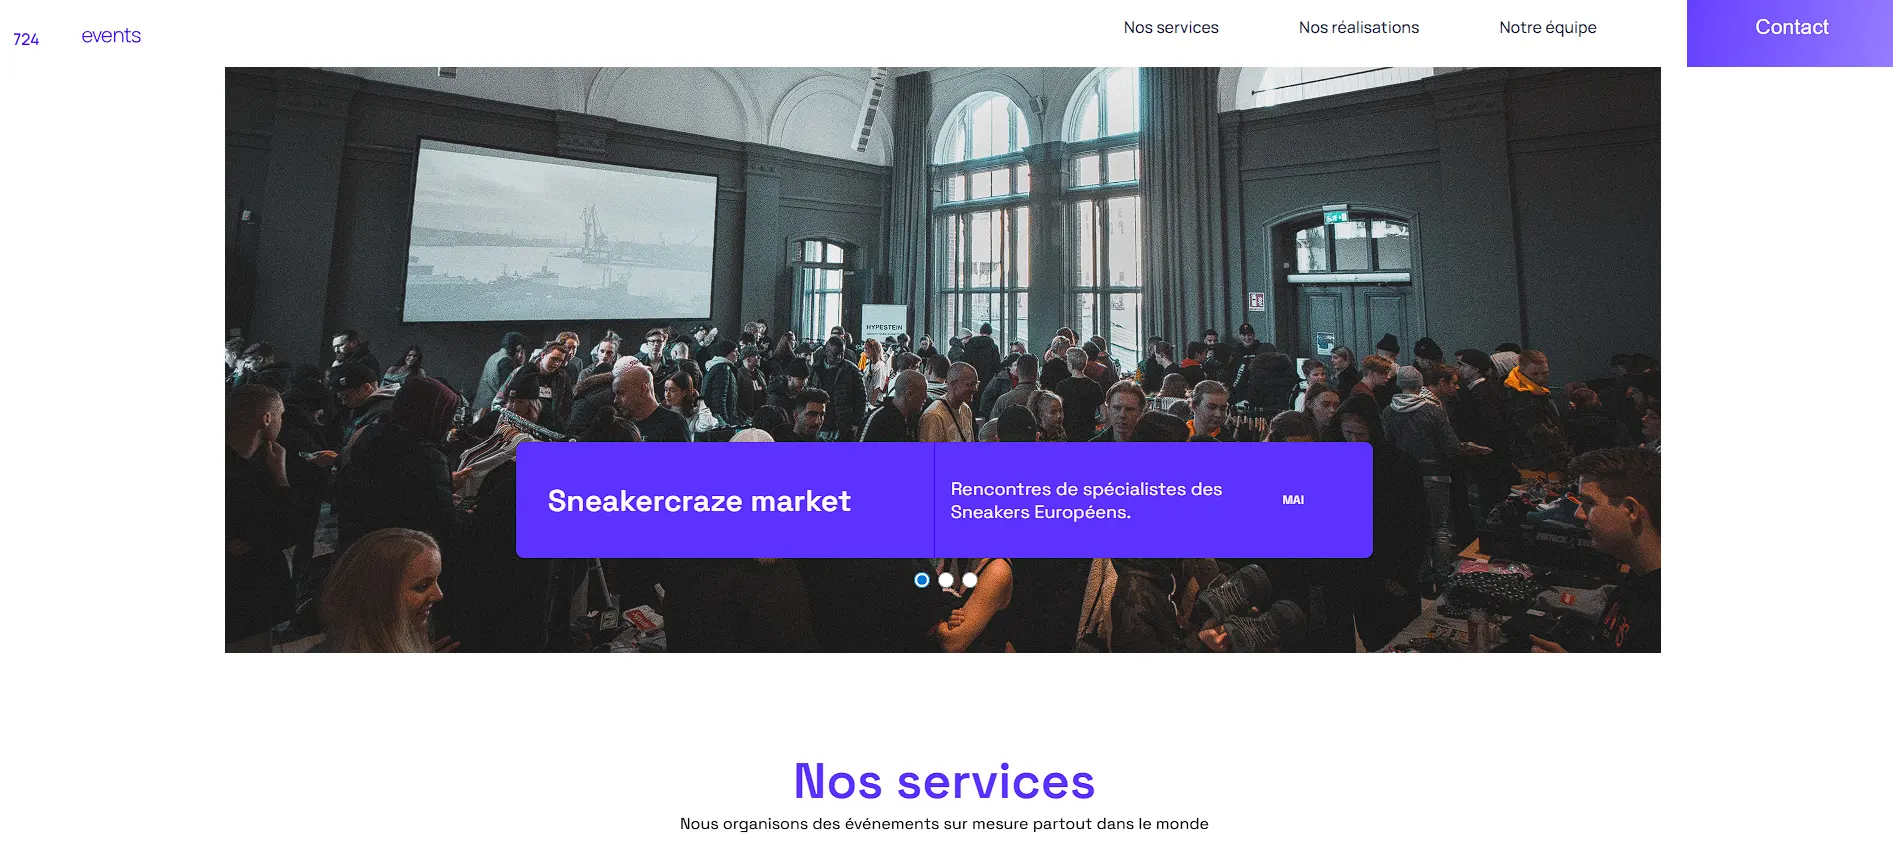
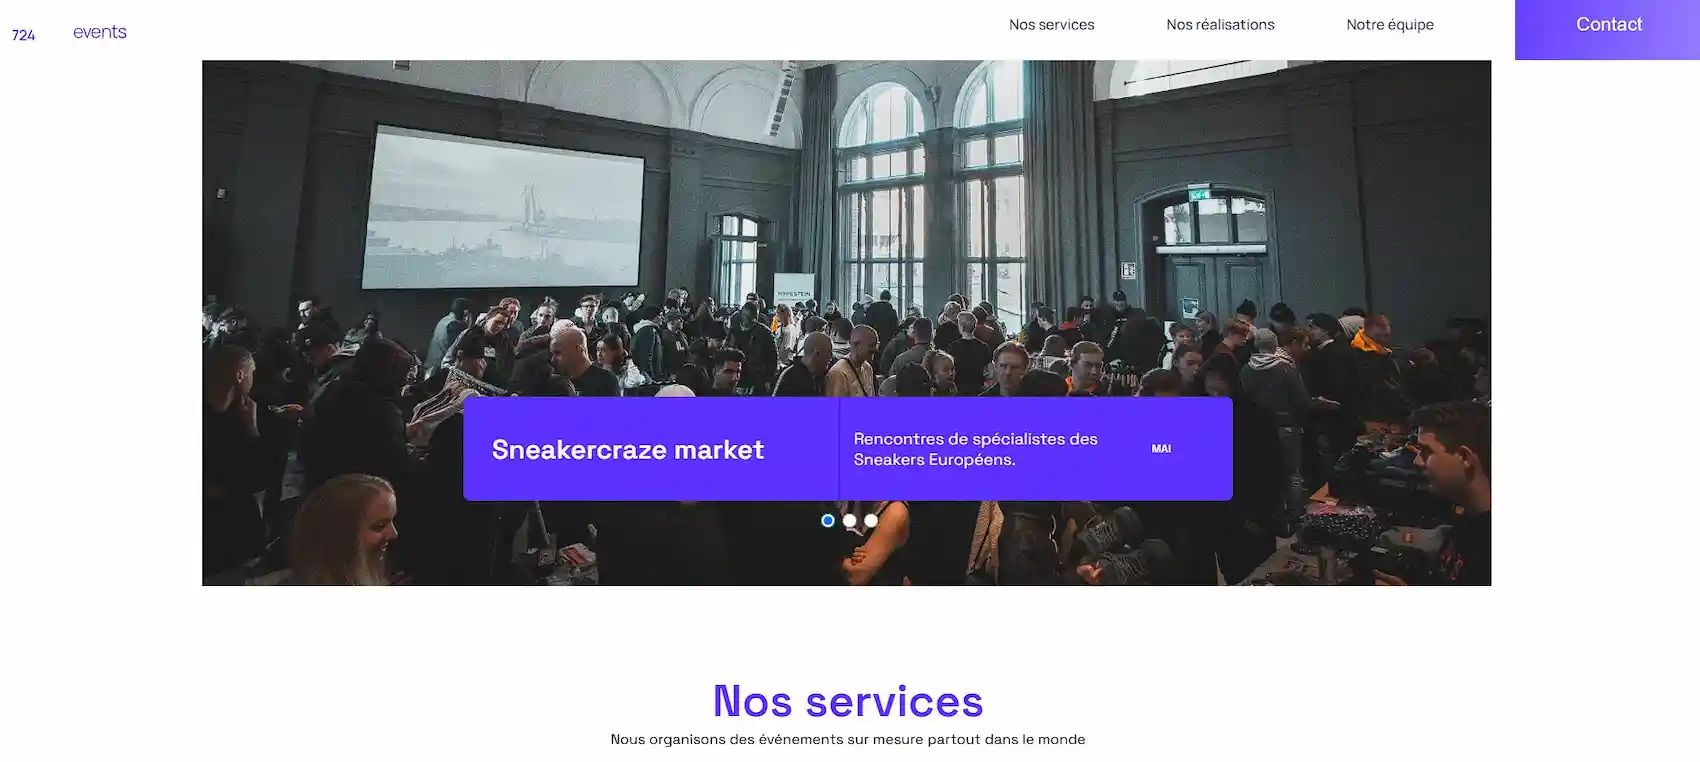
Changement de la taille et format de certaines images, changement dans le carouselet page home pour les perfomances, ajout de competences et description des projets, ajustment des projets favoris, et autre ajustement mineur

diff --git a/src/components/carousels/DesktopCarousel.jsx b/src/components/carousels/DesktopCarousel.jsx
@@ -6,33 +6,37 @@ import GradientEdges from "./shared/GradientEdges";
 import SlideOverlay from "./shared/SlideOverlay";
 import Dots from "./shared/Dots";
 
-const AUTO_DELAY = 10000;
-const FADE_OPTIONS = { type: "tween", duration: 0.4 };
-
 export default function DesktopCarousel({ slides = [] }) {
   const [index, setIndex] = useState(0);
   const [modalOpen, setModalOpen] = useState(false);
   const total = slides.length;
 
   useEffect(() => {
-    if (modalOpen || total === 0) return;
+    if (modalOpen || total < 2) return;
 
     const interval = setInterval(
       () => setIndex((prev) => (prev + 1) % total),
-      AUTO_DELAY,
+      10000,
     );
     return () => clearInterval(interval);
   }, [total, modalOpen]);
 
-  if (!slides || slides.length === 0) return null;
+  if (slides.length === 0) {
+    return (
+      <div
+        className="bg-inactive h-[80vh] max-h-[900px]"
+        
+      />
+    );
+  }
 
   const currentSlide = slides[index];
 
   return (
-    <div className="relative overflow-hidden bg-color3_dark py-8 px-8 z-45">
-      {/* Container  */}
-      <div className="relative aspect-video max-h-[80vh] w-full rounded-xl overflow-hidden">
-        {/* Slides*/}
+    <div className="relative overflow-hidden bg-color3_dark py-8 px-8 flex flex-col items-center">
+      <div
+        className="relative w-full max-w-[1700px] rounded-xl overflow-hidden h-[80vh] max-h-[900px]"
+      >
         {slides.map((slide, i) => (
           <motion.img
             key={slide.id || i}
@@ -43,11 +47,12 @@ export default function DesktopCarousel({ slides = [] }) {
             loading={i === 0 ? "eager" : "lazy"}
             className="absolute inset-0 w-full h-full object-cover"
             animate={{ opacity: i === index ? 1 : 0 }}
-            transition={FADE_OPTIONS}
+            transition={{ type: "tween", duration: 0.4 }}
           />
         ))}
 
-        {/* Overlay */}
+        <GradientEdges />
+
         <div
           className="absolute bottom-4 left-4 cursor-pointer group z-10"
           onClick={() => setModalOpen(true)}
@@ -55,15 +60,12 @@ export default function DesktopCarousel({ slides = [] }) {
           <SlideOverlay
             title={currentSlide.title}
             tags={currentSlide.tags}
-            className="
-              w-[380px]
-              transition-colors
-              group-hover:text-color2
-            "
+            className="w-[380px]"
           />
         </div>
 
-        {/* Navigation */}
+        {/* Chevron gauche */}
+
         <button
           aria-label="Previous slide"
           onClick={() => setIndex((i) => (i - 1 + total) % total)}
@@ -81,17 +83,19 @@ export default function DesktopCarousel({ slides = [] }) {
         </button>
       </div>
 
-      {/* Dots */}
-      <Dots current={index} total={total} onClick={setIndex} />
+      {/* DOTS AVEC HAUTEUR FIXE */}
+      <div className="h-[32px] mt-2">
+        <Dots current={index} total={total} onClick={setIndex} />
+      </div>
 
-      <GradientEdges />
-
-      {/* Modal */}
-      <ProjectModal
-        project={currentSlide}
-        open={modalOpen}
-        onClose={() => setModalOpen(false)}
-      />
+      {/* MODAL SEULEMENT SI OUVERT */}
+      {modalOpen && (
+        <ProjectModal
+          project={currentSlide}
+          open={modalOpen}
+          onClose={() => setModalOpen(false)}
+        />
+      )}
     </div>
   );
 }

diff --git a/src/components/carousels/SwipeCarousel.jsx b/src/components/carousels/SwipeCarousel.jsx
@@ -1,6 +1,5 @@
 import React, { useState } from "react";
 import { motion, useMotionValue } from "framer-motion";
-
 import SlideOverlay from "./shared/SlideOverlay";
 import Dots from "./shared/Dots";
 import GradientEdges from "./shared/GradientEdges";
@@ -17,14 +16,19 @@ export default function SwipeCarousel({ slides = [] }) {
   const total = slides.length;
 
   const onDragEnd = () => {
-    if (modalOpen) return;
+    if (modalOpen || total === 0) return;
 
     const x = dragX.get();
     if (x <= -DRAG_BUFFER) setIndex((prev) => (prev + 1) % total);
     else if (x >= DRAG_BUFFER) setIndex((prev) => (prev - 1 + total) % total);
   };
 
-  if (slides.length === 0) return null;
+  // PLACEHOLDER
+  if (total === 0) {
+    return (
+      <div className="bg-inactive h-[56vw] max-h-[300px]" />
+    );
+  }
 
   const currentSlide = slides[index];
 
@@ -52,13 +56,13 @@ export default function SwipeCarousel({ slides = [] }) {
               flex
               flex-col
               justify-end
-              aspect-[16/9]
               overflow-hidden
+              aspect-video
             "
             animate={{ scale: index === i ? 0.97 : 0.9 }}
             transition={SPRING_OPTIONS}
           >
-            {/* Image (n'intercepte pas les events) */}
+            {/* Image */}
             <img
               src={slide.image}
               alt={slide.title}
@@ -73,7 +77,7 @@ export default function SwipeCarousel({ slides = [] }) {
               "
             />
 
-            {/* Overlay interactif */}
+            {/* Overlay */}
             <div className="relative z-10" onClick={() => setModalOpen(true)}>
               <SlideOverlay
                 title={slide.title}
@@ -85,14 +89,21 @@ export default function SwipeCarousel({ slides = [] }) {
         ))}
       </motion.div>
 
-      <Dots current={index} total={total} onClick={setIndex} />
+      {/* DOTS avec espace réservé */}
+      <div className="h-[32px] mt-4">
+        <Dots current={index} total={total} onClick={setIndex} />
+      </div>
+
       <GradientEdges />
 
-      <ProjectModal
-        project={currentSlide}
-        open={modalOpen}
-        onClose={() => setModalOpen(false)}
-      />
+      {/* MODAL seulement si ouvert */}
+      {modalOpen && (
+        <ProjectModal
+          project={currentSlide}
+          open={modalOpen}
+          onClose={() => setModalOpen(false)}
+        />
+      )}
     </div>
   );
 }

diff --git a/src/pages/Home.jsx b/src/pages/Home.jsx
@@ -11,36 +11,25 @@ export default function Home() {
   const [latestProjects, setLatestProjects] = useState([]);
   const [tools, setTools] = useState([]);
 
-  // Charger les projets
   useEffect(() => {
     fetch("/projects.json")
       .then((res) => res.json())
       .then((data) => {
         setProjects(data);
         setLatestProjects(data.slice(-3));
-      })
-      .catch((err) =>
-        console.error("Erreur lors du chargement des projets :", err),
-      );
+      });
   }, []);
 
-  // Charger les outils
   useEffect(() => {
     fetch("/tools.json")
       .then((res) => res.json())
-      .then((data) => setTools(data))
-      .catch((err) =>
-        console.error("Erreur lors du chargement des outils :", err),
-      );
+      .then((data) => setTools(data));
   }, []);
 
   return (
     <div className="w-full overflow-x-hidden">
-      {/* Hero: ResponsiveCarousel */}
-      {latestProjects.length > 0 && (
-        <ResponsiveCarousel slides={latestProjects} />
-      )}
-
+      {/* Hero*/}
+      <ResponsiveCarousel slides={latestProjects} />
       {/* À propos */}
       <section className="py-12 bg-color1">
         <Container>
@@ -50,7 +39,7 @@ export default function Home() {
 
           <div className="flex flex-row items-center justify-center gap-6">
             <img
-              src="/images/profile.png"
+              src="/images/profile.webp"
               alt="My Logo"
               className="hidden md:block h-40 md:h-80"
             />

diff --git a/src/components/Header.jsx b/src/components/Header.jsx
@@ -38,11 +38,11 @@ export default function Header() {
   return (
     <header className="bg-color3 text-white shadow-md  z-50 relative">
       <Container>
-        <div className="flex items-center  h-[10vh]">
+        <div className="flex items-center  h-22">
           {/* Logo */}
           <div className="flex items-center">
             <img
-              src="/images/profile.png"
+              src="/images/profile_header.webp"
               alt="My logo"
               className="h-20 object-cover"
             />

diff --git a/src/pages/About.jsx b/src/pages/About.jsx
@@ -61,7 +61,7 @@ export default function About() {
                     <div className="border-2 w-80 flex mb-5 md:mb-10 border-color2_dark"></div>
 
                     <img
-                      src="/images/profile.png"
+                      src="/images/profile.webp"
                       alt="My logo"
                       className="float-left mr-4 mb-2 h-30 md:h-50 object-cover "
                     />

diff --git a/src/components/Layout.jsx b/src/components/Layout.jsx
@@ -31,7 +31,7 @@ export default function Layout({ children }) {
 
       <Header />
 
-      <main className="flex-1 bg-color1_light">
+      <main className="flex-1 bg-linear-to-b from-color1_light to-color1">
         {children}
       </main>
 

diff --git a/README.md b/README.md
@@ -1,17 +1,4 @@
 
 
 -A Corriger
-    FAIT- le decalage des projets 
-    FAIT -les competences version mobile (page home)
-    FAIT -le scroll de la page about
-    FAIT -Bottom bar nav reste activé sur l'ancienne page quand change de page en desktop puis passe en mobile
-    FAIT LA VERSION MOBILE -ameliorer la page about  https://joe.arkaans.com/about
-    FAIT trouver une solution aux erreur boutons
-    FAIT ajouté les id et label a contact + modif
-
-
-    -passer les images en webp
-    -faire les descriptions des projet
-    -ajouté des competences
-    -ajouté le projet personel
-    -choisir les projets favoris
+    -faire les descriptions des projet 10 et 11
